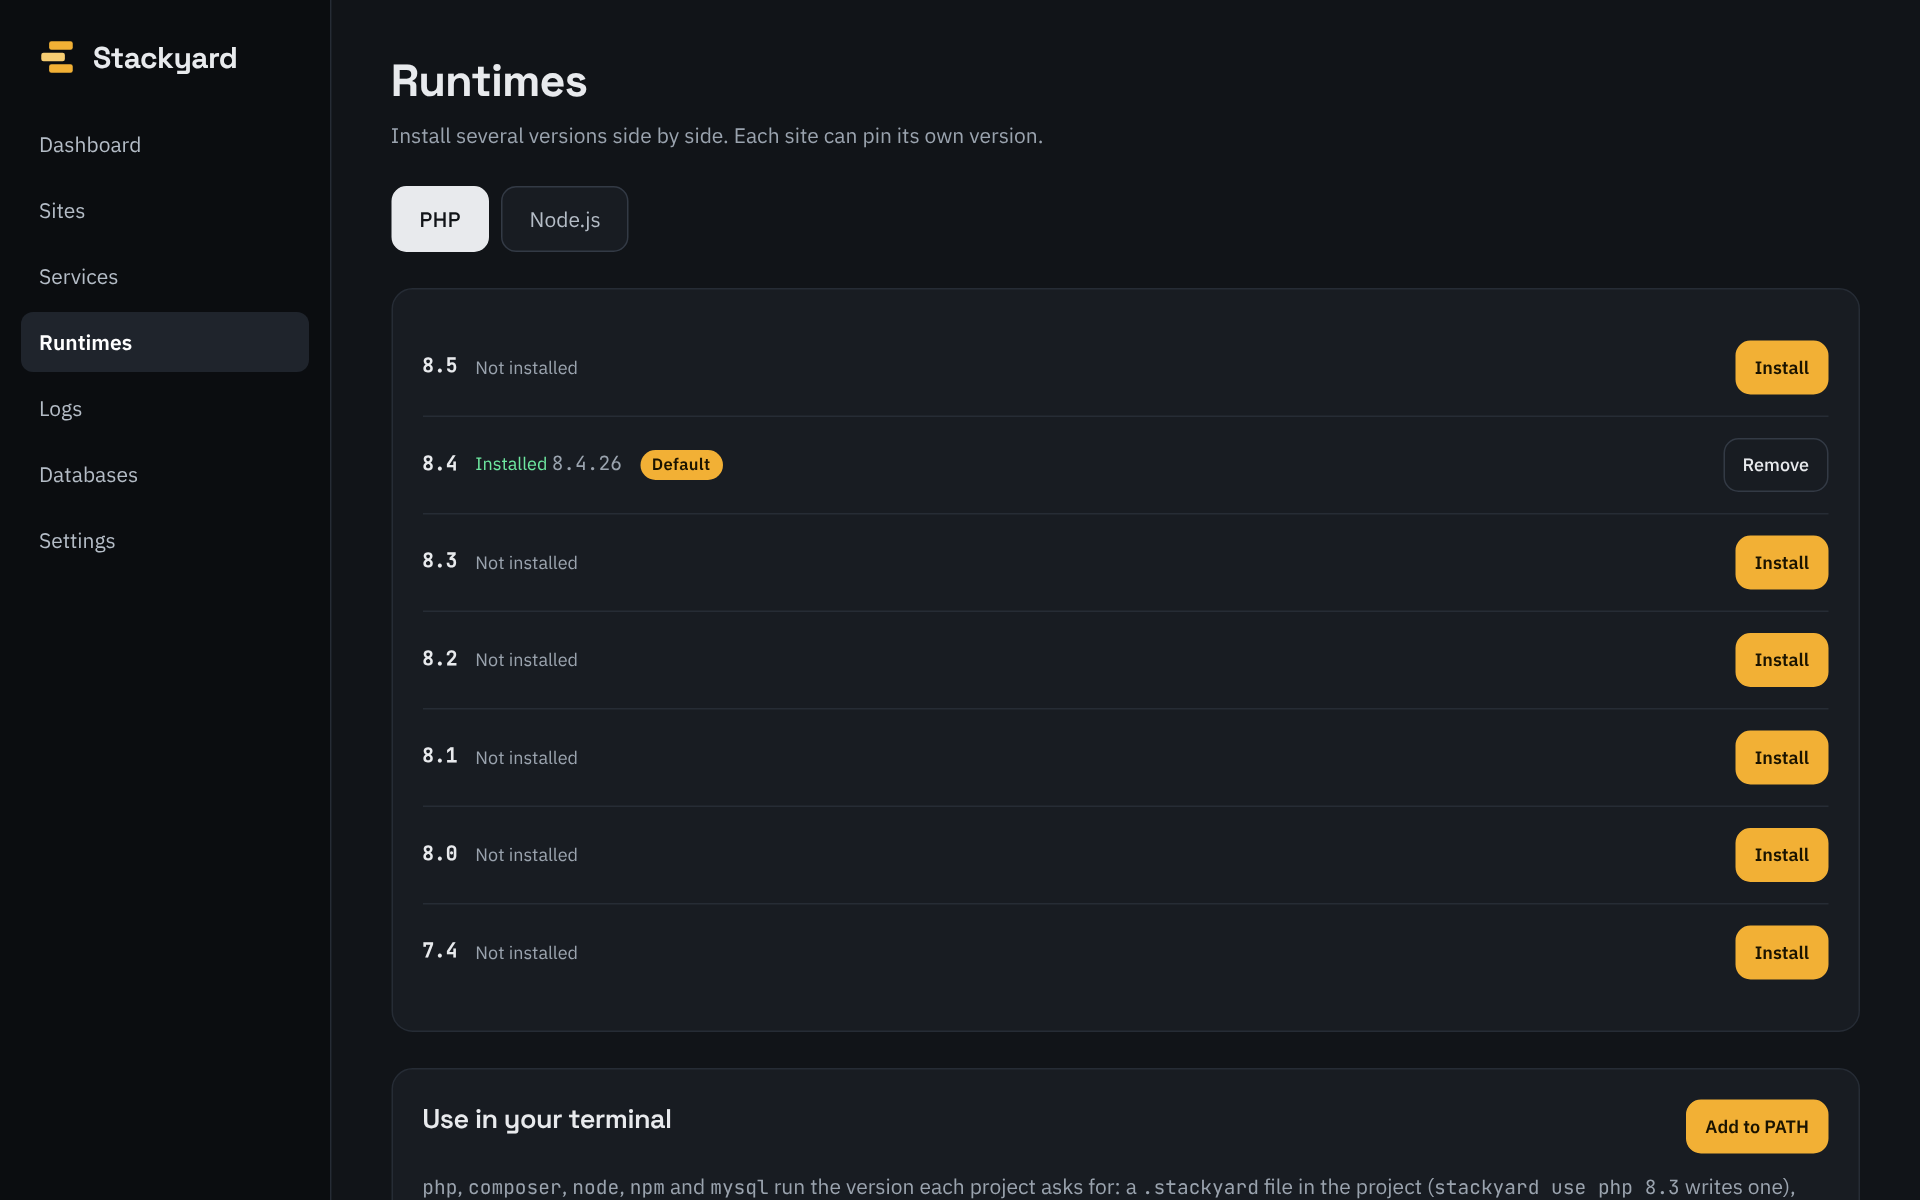
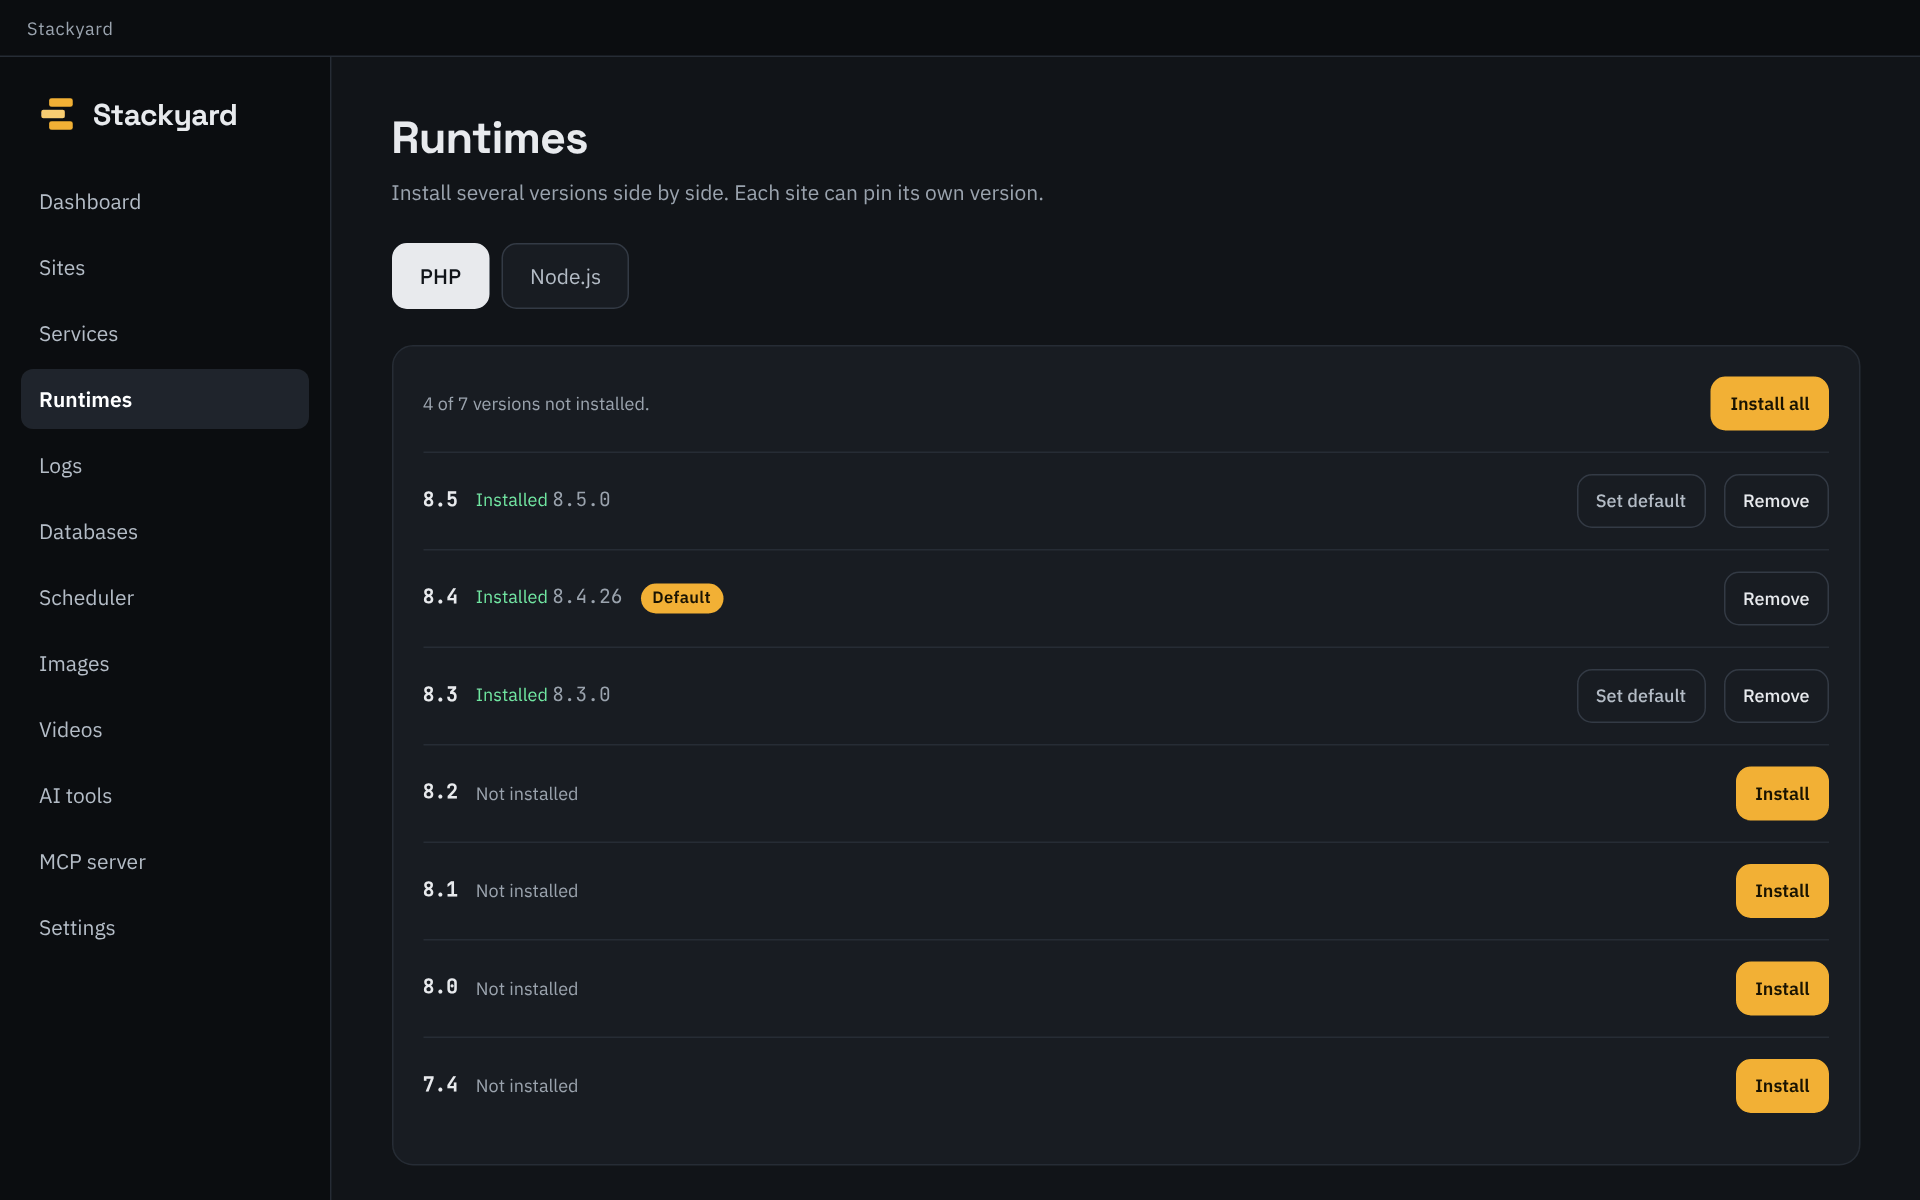
Retake the README and website screenshots (#38)
Ten fresh screenshots (Dashboard, Sites, Services, Runtimes, Servers, Databases, Logs, Images, Videos, Settings), about half the old file size. scripts/screenshots.mjs takes them from the browser preview; CONTRIBUTING.md explains how to rerun it.

diff --git a/site/index.html b/site/index.html
@@ -135,12 +135,17 @@
     <div class="tabs" role="tablist" aria-label="Screens">
       <button role="tab" aria-selected="true" data-shot="dashboard">Dashboard</button>
       <button role="tab" aria-selected="false" data-shot="sites">Sites</button>
+      <button role="tab" aria-selected="false" data-shot="services">Services</button>
       <button role="tab" aria-selected="false" data-shot="runtimes">Runtimes</button>
+      <button role="tab" aria-selected="false" data-shot="servers">Servers</button>
       <button role="tab" aria-selected="false" data-shot="databases">Databases</button>
       <button role="tab" aria-selected="false" data-shot="logs">Logs</button>
+      <button role="tab" aria-selected="false" data-shot="images">Images</button>
+      <button role="tab" aria-selected="false" data-shot="videos">Videos</button>
+      <button role="tab" aria-selected="false" data-shot="settings">Settings</button>
     </div>
     <figure class="shot">
-      <img id="tour-img" src="images/dashboard.png" alt="Dashboard with services, sites and runtimes" width="1920" height="1200" loading="lazy">
+      <img id="tour-img" src="images/dashboard.png" alt="Dashboard with running services, sites, runtimes and the MCP server" width="1920" height="1200" loading="lazy">
     </figure>
   </div>
 </section>

diff --git a/site/app.js b/site/app.js
@@ -59,11 +59,16 @@
   // Screenshot tabs
   var img = document.getElementById("tour-img");
   var alts = {
+    dashboard: "Dashboard with running services, sites, runtimes and the MCP server",
     sites: "The Sites screen with three local HTTPS sites",
-    dashboard: "Dashboard with services, sites and runtimes",
-    runtimes: "Runtimes screen with PHP and Node.js versions",
-    databases: "Databases screen listing tables",
-    logs: "Logs screen with warnings and errors highlighted"
+    services: "Services screen: Caddy, MySQL, PostgreSQL, Redis and Mailpit",
+    runtimes: "Runtimes screen with PHP 7.4 to 8.5, three versions installed",
+    servers: "A site's Servers panel with an SFTP server and upload, download and browse buttons",
+    databases: "Databases screen listing a database's tables",
+    logs: "Logs screen with warnings and errors highlighted",
+    images: "Image optimizer making WebP and AVIF copies of images",
+    videos: "Video optimizer making MP4, WebM and GIF copies of videos",
+    settings: "Settings screen with updates, local domains and modules you can switch off"
   };
   document.querySelectorAll(".tabs button").forEach(function (b) {
     b.addEventListener("click", function () {

diff --git a/src/lib/api.ts b/src/lib/api.ts
@@ -1493,7 +1493,7 @@ const git: Record<string, GitStatus> = {
 };
 
 let update: UpdateStatus = {
-  current: "0.1.0",
+  current: import.meta.env.VITE_APP_VERSION ?? "0.1.0",
   configured: true,
   checking: false,
   installing: false,

diff --git a/scripts/shrink-png.py b/scripts/shrink-png.py
@@ -1,0 +1,10 @@
+"""Reduces screenshots to 256 colours, which keeps them sharp at a fraction
+of the size. Used by scripts/screenshots.mjs; needs Pillow."""
+
+import sys
+
+from PIL import Image
+
+for path in sys.argv[1:]:
+    image = Image.open(path).convert("RGB")
+    image.quantize(256, method=Image.Quantize.MEDIANCUT, dither=Image.Dither.NONE).save(path, optimize=True)

diff --git a/README.md b/README.md
@@ -154,12 +154,24 @@ stackyard use php 8.3                  # pin a version for the current project
 
 <table>
 <tr>
-<td width="50%"><img src="docs/images/dashboard.png" alt="Dashboard with services, sites and runtimes"></td>
-<td width="50%"><img src="docs/images/runtimes.png" alt="Runtimes screen with PHP versions 7.4 to 8.5"></td>
+<td width="50%"><img src="docs/images/dashboard.png" alt="Dashboard with running services, sites, runtimes and the MCP server"></td>
+<td width="50%"><img src="docs/images/services.png" alt="Services screen: Caddy, MySQL, PostgreSQL, Redis and Mailpit with start and stop buttons"></td>
 </tr>
 <tr>
-<td><img src="docs/images/databases.png" alt="Databases screen listing tables"></td>
+<td><img src="docs/images/runtimes.png" alt="Runtimes screen with PHP 7.4 to 8.5, three versions installed"></td>
+<td><img src="docs/images/servers.png" alt="A site's Servers panel with an SFTP server and upload, download and browse buttons"></td>
+</tr>
+<tr>
+<td><img src="docs/images/databases.png" alt="Databases screen listing a database's tables, with Query and Backups tabs"></td>
 <td><img src="docs/images/logs.png" alt="Logs screen with warnings and errors highlighted"></td>
+</tr>
+<tr>
+<td><img src="docs/images/images.png" alt="Image optimizer making WebP and AVIF copies of images"></td>
+<td><img src="docs/images/videos.png" alt="Video optimizer making MP4, WebM and GIF copies of videos"></td>
+</tr>
+<tr>
+<td><img src="docs/images/settings.png" alt="Settings screen with updates, local domains and modules you can switch off"></td>
+<td></td>
 </tr>
 </table>
 

diff --git a/CONTRIBUTING.md b/CONTRIBUTING.md
@@ -32,6 +32,20 @@ cargo test -p stackyard-core -- --ignored live_   # real downloads, and services
 cargo run -p stackyard-cli -- sites list
 ```
 
+## Screenshots
+
+The pictures in `docs/images` (README and website) come from the browser preview with its sample data.
+After a change to how a screen looks, retake them:
+
+```sh
+npm i --no-save playwright
+npx playwright install chromium
+node scripts/screenshots.mjs              # every screen
+node scripts/screenshots.mjs logs images  # only these
+```
+
+With Python and Pillow installed, the script also cuts each PNG to 256 colours, which keeps them around 50 KB.
+
 ## Before you open a pull request
 
 Run the same checks CI runs:
